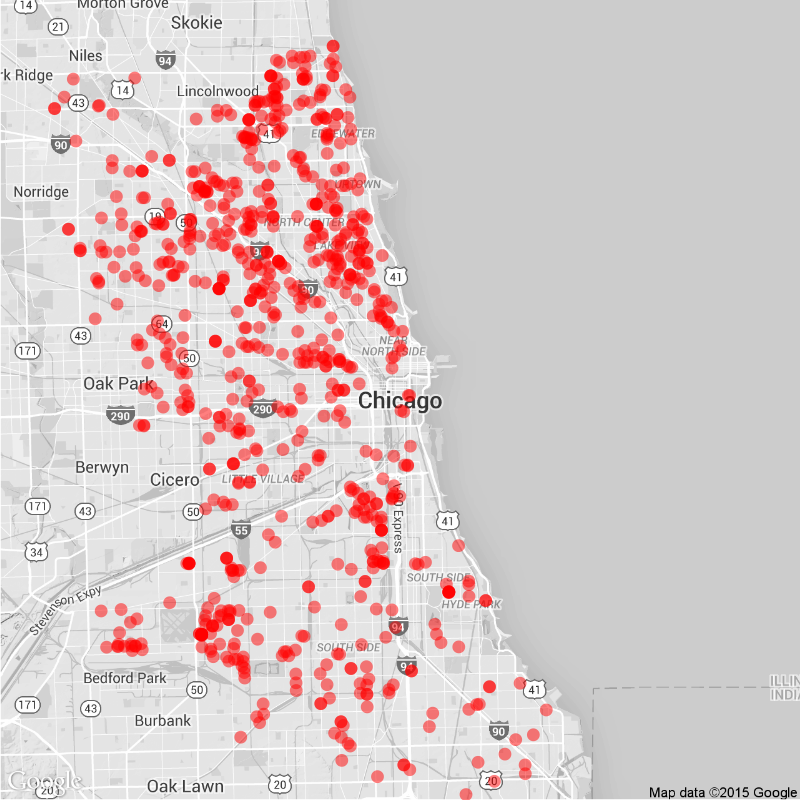
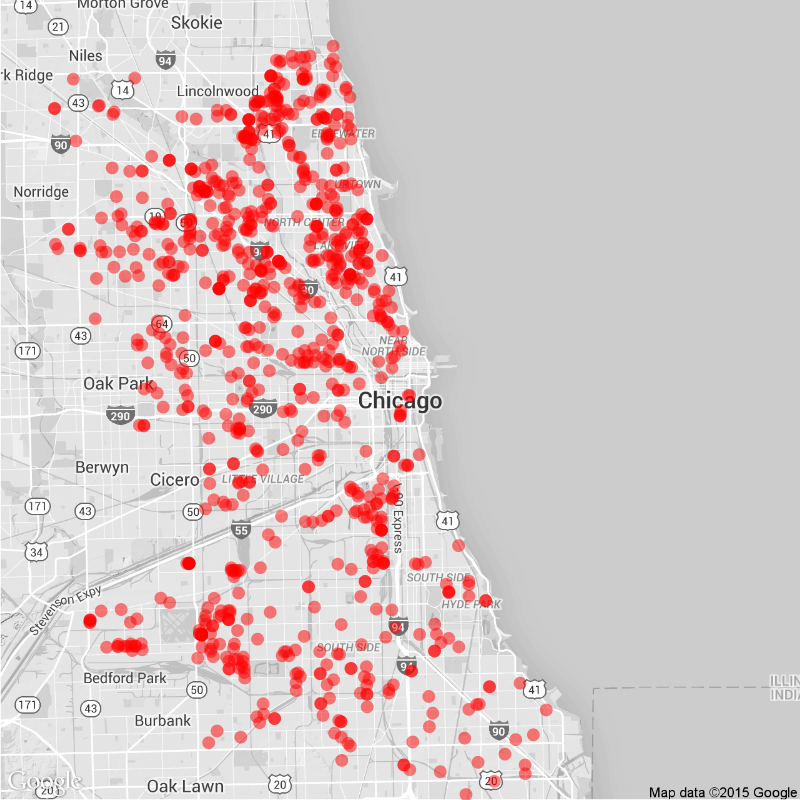
Daily Maps

diff --git a/daily.md b/daily.md
@@ -15,22 +15,22 @@ tags: Chicago NYC weekly daily rats
 
 ### Daily
 
-Yesterday (July 09), there were 167 calls to Chicago's 311 line about rats.
+Yesterday (July 10), there were 148 calls to Chicago's 311 line about rats.
 ![Chicago rat calls to 311 weekly map]({{ site.cityimages }}/daily/Chicago_Rat_Map_Daily.png)
 
 ### Weekly
-Between July 03 and July 09, there were 821 calls to Chicago's 311 line about rats. The average number of weekly calls for this time of year is 889.
+Between July 04 and July 10, there were 898 calls to Chicago's 311 line about rats. The average number of weekly calls for this time of year is 889.
 ![Chicago rat calls to 311 weekly map]({{ site.cityimages }}/daily/Chicago_Rat_Map_Weekly.png)
 ***
 # New York City <a id="nyc"><a>
 
 ### Daily
 
-Yesterday (July 09), there were 0 calls to New York City's 311 line about rats.
+Yesterday (July 10), there were 0 calls to New York City's 311 line about rats.
 ![NYC rat calls to 311 weekly map]({{ site.cityimages }}/daily/NYC_Rat_Map_Daily.png)
 
 ### Weekly
-Between July 03 and July 09, there were 0 calls to New York City's 311 line about rats. The average number of weekly calls for this time of year is 280.
+Between July 04 and July 10, there were 0 calls to New York City's 311 line about rats. The average number of weekly calls for this time of year is 280.
 ![NYC rat calls to 311 weekly map]({{ site.cityimages }}/daily/NYC_Rat_Map_Weekly.png)
 
 Each red dot represents one call about a rat seen in that location. The dots are transparent, so multiple calls from one location will be seen as a solid dot. The usual caveats apply: more calls do not necessarily mean that there are more rats in that location than other parts of the city. A cluster of dots could indicate that one resident is unusually vocal about rodents in his or her neighborhood. Also, more densely populated neighborhoods tend to make more calls to 311.
